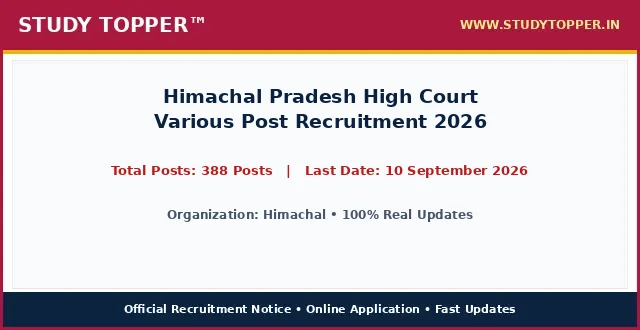
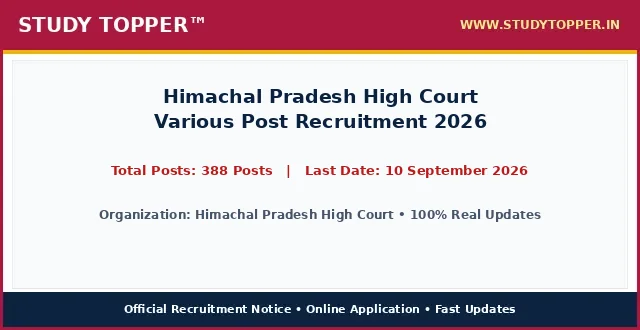
chore(lifecycle): daily auto-sort vacancies and update active dates

Changed region(s): [[0.1562, 0.6364, 0.8438, 0.6667]]

diff --git a/pages/himachal-pradesh-high-court-various-post-2026.html b/pages/himachal-pradesh-high-court-various-post-2026.html
@@ -987,12 +987,12 @@ ul.wp-block-latest-posts a:hover {
 <main class="site-main" id="main">
 <div class="gb-container gb-container-b39c368c">
 <h1 class="gb-headline gb-headline-e52a0102 gb-headline-text" style="font-size: 22px; font-weight: 700; color: #0000cd; text-align: left; margin: 8px 0 4px 0; line-height: 1.3; width: 100%; font-family: '-apple-system, BlinkMacSystemFont, 'Segoe UI', Roboto, 'Helvetica Neue', Arial, sans-serif', Times, serif, Hind, sans-serif;">Himachal Pradesh High Court Various Post Recruitment 2026</h1>
-<div class="gb-container gb-container-659bd175"><p style="color: #cd0808; font-weight: 700; font-size: 15px; margin: 2px 0 7px 0; text-align: left; font-family: '-apple-system, BlinkMacSystemFont, 'Segoe UI', Roboto, 'Helvetica Neue', Arial, sans-serif', Times, serif, Hind, sans-serif;">Post Date: August 22, 2026 12:44 PM</p></div>
-<p class="gb-headline gb-headline-550ae316 short_Details gb-headline-text" style="width: 100%; max-width: 100%; font-size: 16.8px; line-height: 1.55; color: #000000; text-align: justify; text-justify: inter-word; margin: 8px 0 14px 0; display: block; font-family: '-apple-system, BlinkMacSystemFont, 'Segoe UI', Roboto, 'Helvetica Neue', Arial, sans-serif', Times, serif, Hind, sans-serif;"><strong style="color: #0000cd;">Himachal</strong> has officially published the recruitment notice <strong style="color: #cd0808;">Himachal Pradesh High Court Various Post Recruitment 2026</strong> under notification number 2026. Online applications are invited for 388 Posts across multiple departments and cadre positions. Interested candidates possessing the requisite educational qualifications and falling between 18 Years to 40 Years can complete their online registration before the application deadline of 10 September 2026. Applicants should read the eligibility criteria, category reservation rules, and exam scheme thoroughly before submitting applications.</p>
+<div class="gb-container gb-container-659bd175"><p style="color: #cd0808; font-weight: 700; font-size: 15px; margin: 2px 0 7px 0; text-align: left; font-family: '-apple-system, BlinkMacSystemFont, 'Segoe UI', Roboto, 'Helvetica Neue', Arial, sans-serif', Times, serif, Hind, sans-serif;">Post Date: August 22, 2026 12:54 PM</p></div>
+<p class="gb-headline gb-headline-550ae316 short_Details gb-headline-text" style="width: 100%; max-width: 100%; font-size: 16.8px; line-height: 1.55; color: #000000; text-align: justify; text-justify: inter-word; margin: 8px 0 14px 0; display: block; font-family: '-apple-system, BlinkMacSystemFont, 'Segoe UI', Roboto, 'Helvetica Neue', Arial, sans-serif', Times, serif, Hind, sans-serif;"><strong style="color: #0000cd;">Himachal Pradesh High Court</strong> has officially published the recruitment notice <strong style="color: #cd0808;">Himachal Pradesh High Court Various Post Recruitment 2026</strong> under notification number Official Notification 2026. Online applications are invited for 388 Posts across multiple departments and cadre positions. Interested candidates possessing the requisite educational qualifications and falling between 18 Years to 40 Years can complete their online registration before the application deadline of 10 September 2026. Applicants should read the eligibility criteria, category reservation rules, and exam scheme thoroughly before submitting applications.</p>
 <div class="gb-container gb-container-9849916c"><div class="social-buttons-compact" style="display: flex; justify-content: flex-start; align-items: center; gap: 10px; margin: 10px 0 16px 0; width: 100%;"><a class="social-btn-compact wa" href="https://whatsapp.com/channel/0029Va9xyz" rel="noopener" style="background-color: #00d084; color: #ffffff; padding: 10px 18px; border-radius: 4px; text-decoration: none; font-weight: bold; font-size: 15.5px; display: inline-flex; align-items: center; justify-content: center; height: auto;" target="_blank">WhatsApp</a><a class="social-btn-compact tg" href="https://t.me/studytopperofficial" rel="noopener" style="background-color: #0088cc; color: #ffffff; padding: 10px 18px; border-radius: 4px; text-decoration: none; font-weight: bold; font-size: 15.5px; display: inline-flex; align-items: center; justify-content: center; height: auto;" target="_blank">Telegram</a></div></div>
 <div class="gb-container gb-container-f58e6ca1" style="border: 2px solid #5b032f; border-radius: 4px; overflow: hidden; margin: 15px 0 20px 0; background-color: #ffffff; width: 100%; box-sizing: border-box;">
 <h2 class="gb-headline gb-headline-2ca5a791 gb-headline-text" style="font-size: 16px; font-weight: 700; text-align: center; color: #ef0303; line-height: 1.3; padding: 6px 4px; margin: 0; background: #ffffff; font-family: '-apple-system, BlinkMacSystemFont, 'Segoe UI', Roboto, 'Helvetica Neue', Arial, sans-serif', Times, serif, Hind, sans-serif;">Himachal Pradesh High Court Various Post Recruitment 2026 &ndash; Latest Details &amp; Updates</h2>
-<h3 class="gb-headline gb-headline-7d5f86e8 gb-headline-text" style="font-size: 16px; font-weight: 600; text-align: center; color: #009703; line-height: 1.25; margin: 0; padding: 2px 4px 6px 4px; background: #ffffff; font-family: '-apple-system, BlinkMacSystemFont, 'Segoe UI', Roboto, 'Helvetica Neue', Arial, sans-serif', Times, serif, Hind, sans-serif;">Himachal : Details &amp; Summary</h3>
+<h3 class="gb-headline gb-headline-7d5f86e8 gb-headline-text" style="font-size: 16px; font-weight: 600; text-align: center; color: #009703; line-height: 1.25; margin: 0; padding: 2px 4px 6px 4px; background: #ffffff; font-family: '-apple-system, BlinkMacSystemFont, 'Segoe UI', Roboto, 'Helvetica Neue', Arial, sans-serif', Times, serif, Hind, sans-serif;">Himachal Pradesh High Court : Details &amp; Summary</h3>
 <p class="gb-headline gb-headline-79adf169 gb-headline-text" style="margin: 0 0 6px 0; font-family: '-apple-system, BlinkMacSystemFont, 'Segoe UI', Roboto, 'Helvetica Neue', Arial, sans-serif', Times, serif, Hind, sans-serif; text-align: center; font-size: 18px; font-weight: 700;"><a href="/" style="color: #0000ff; text-decoration: underline;">StudyTopper.in</a></p>
 
 <style id="st-post-boxes-responsive-css">
@@ -1025,7 +1025,7 @@ ul.wp-block-latest-posts a:hover {
     <div style="background-color: #5b032f; color: #ffffff; padding: 8px 10px; font-size: 20px; font-weight: 700; text-align: center; font-family: '-apple-system, BlinkMacSystemFont, 'Segoe UI', Roboto, 'Helvetica Neue', Arial, sans-serif', Times, serif, Hind, sans-serif;">Important Dates</div>
     <div style="padding: 12px 14px; background-color: #ffffff;">
       <ul style="padding-left: 20px; margin: 0; list-style-type: disc; text-align: left; font-size: 14pt; line-height: 1.6; font-family: '-apple-system, BlinkMacSystemFont, 'Segoe UI', Roboto, 'Helvetica Neue', Arial, sans-serif', Times, serif, Hind, sans-serif;">
-        <li><span style="font-size: 14pt;">Application Begin : <strong>As per Official Notification</strong></span></li><li><span style="font-size: 14pt;">Last Date for Apply Online : <span style="color: #ff0000;"><strong>10 September 2026</strong></span></span></li><li><span style="font-size: 14pt;">Pay Exam Fee Last Date : <span style="color: #ff0000;"><strong>10 September 2026</strong></span></span></li><li><span style="font-size: 14pt;">Exam Date : <strong>As per Schedule</strong></span></li><li><span style="font-size: 14pt;">Admit Card Available : <strong>Before Examination</strong></span></li>
+        <li><span style="font-size: 14pt;">Application Begin : <strong>Check Official Notification</strong></span></li><li><span style="font-size: 14pt;">Last Date for Apply Online : <span style="color: #ff0000;"><strong>10 September 2026</strong></span></span></li><li><span style="font-size: 14pt;">Pay Exam Fee Last Date : <span style="color: #ff0000;"><strong>10 September 2026</strong></span></span></li><li><span style="font-size: 14pt;">Exam Date : <strong>As per Schedule</strong></span></li>
       </ul>
     </div>
   </div>
@@ -1034,7 +1034,7 @@ ul.wp-block-latest-posts a:hover {
     <div style="background-color: #5b032f; color: #ffffff; padding: 8px 10px; font-size: 20px; font-weight: 700; text-align: center; font-family: '-apple-system, BlinkMacSystemFont, 'Segoe UI', Roboto, 'Helvetica Neue', Arial, sans-serif', Times, serif, Hind, sans-serif;">Application Fee</div>
     <div style="padding: 12px 14px; background-color: #ffffff;">
       <ul style="padding-left: 20px; margin: 0; list-style-type: disc; text-align: left; font-size: 14pt; line-height: 1.6; font-family: '-apple-system, BlinkMacSystemFont, 'Segoe UI', Roboto, 'Helvetica Neue', Arial, sans-serif', Times, serif, Hind, sans-serif;">
-        <li><span style="font-size: 14pt;">General / OBC / EWS : <strong>Check Official Notification</strong></span></li><li><span style="font-size: 14pt;">SC / ST / PH : <strong>Check Official Notification</strong></span></li><li><span style="font-size: 14pt;">Payment Mode : <strong>Online Fee Mode via Net Banking, Debit/Credit Card or Offline Challan</strong></span></li>
+        <li><span style="font-size: 14pt;">General / OBC / EWS : <strong>Check Official Notification</strong></span></li><li><span style="font-size: 14pt;">SC / ST / PH : <strong>Check Official Notification</strong></span></li><li><span style="font-size: 14pt;">Payment Mode : <strong>Online / Offline Fee Mode as per Notification</strong></span></li>
       </ul>
       <div style="margin-top: 10px; font-size: 14pt; line-height: 1.5; color: #000000; border-top: 1px dashed #ccc; padding-top: 8px; font-family: '-apple-system, BlinkMacSystemFont, 'Segoe UI', Roboto, 'Helvetica Neue', Arial, sans-serif', Times, serif, Hind, sans-serif;">
         <strong>Mode of Payment / Access:</strong> Online via Net Banking, Debit Card, Credit Card, UPI or Free Candidate Portal.
@@ -1047,7 +1047,7 @@ ul.wp-block-latest-posts a:hover {
 <div class="st-grid-row" style="display: flex; flex-wrap: wrap; width: 100%; border-top: 2px solid #5b032f; margin: 0; padding: 0; box-sizing: border-box;">
   <!-- Left Col: Age Limits -->
   <div class="st-col-half st-col-border-right" style="box-sizing: border-box; vertical-align: top;">
-    <div style="background-color: #046132; color: #ffffff; padding: 8px 10px; font-size: 17px; font-weight: 700; text-align: center; font-family: '-apple-system, BlinkMacSystemFont, 'Segoe UI', Roboto, 'Helvetica Neue', Arial, sans-serif', Times, serif, Hind, sans-serif;">Himachal : Age Limits As On 01/08/2026</div>
+    <div style="background-color: #046132; color: #ffffff; padding: 8px 10px; font-size: 17px; font-weight: 700; text-align: center; font-family: '-apple-system, BlinkMacSystemFont, 'Segoe UI', Roboto, 'Helvetica Neue', Arial, sans-serif', Times, serif, Hind, sans-serif;">Himachal Pradesh High Court : Age Limits As On 01/08/2026</div>
     <div style="padding: 12px 14px; background-color: #ffffff;">
       <ul style="padding-left: 20px; margin: 0; list-style-type: disc; text-align: left; font-size: 14pt; line-height: 1.6; font-family: '-apple-system, BlinkMacSystemFont, 'Segoe UI', Roboto, 'Helvetica Neue', Arial, sans-serif', Times, serif, Hind, sans-serif;">
         <li><span style="font-size: 14pt;">Minimum age : <strong>18 Years &</strong></span></li><li><span style="font-size: 14pt;">The Maximum Age Is : <strong>45 Years</strong></span></li>
@@ -1113,10 +1113,10 @@ ul.wp-block-latest-posts a:hover {
 <table style="border-collapse: collapse; width: 100%;">
 <tbody>
 <tr>
-<td style="width: 100%; text-align: center;"><span style="background-color: #000080; color: #ffffff; font-size: 14pt; font-weight: bold; display: block; padding: 6px;"> How to Fill Himachal Online Application Form </span></td>
+<td style="width: 100%; text-align: center;"><span style="background-color: #000080; color: #ffffff; font-size: 14pt; font-weight: bold; display: block; padding: 6px;"> How to Fill Himachal Pradesh High Court Online Application Form </span></td>
 </tr>
 <tr>
-<td style="width: 100%;"><ol style="margin:0; padding-left:18px; text-align: left !important; list-style-position: outside !important"><li style="margin-bottom:6px; text-align: left !important;">Candidate must read the complete official notification issued by Himachal before applying.</li><li style="margin-bottom:6px; text-align: left !important;">Collect and verify all essential documents including Educational Proof, ID Proof, Address Details, and Basic Details.</li><li style="margin-bottom:6px; text-align: left !important;">Scan all necessary documents accurately: Passport Size Photograph, Signature, ID Proof, and Category Certificate.</li><li style="margin-bottom:6px; text-align: left !important;">Click on the 'Apply Online' link given in the Important Links section below on StudyTopper.</li><li style="margin-bottom:6px; text-align: left !important;">Fill all required personal, educational, and communication details in the application form carefully.</li><li style="margin-bottom:6px; text-align: left !important;">Review the application form preview thoroughly before final submission.</li><li style="margin-bottom:6px; text-align: left !important;">Pay the prescribed examination fee through online payment gateway if applicable.</li><li style="margin-bottom:6px; text-align: left !important;">Take a clean printout of the final submitted application form for future reference.</li><li style="margin-bottom:6px; text-align: left !important;">Resize candidate photograph and signature accurately using the <a href="https://indtool.in" rel="noopener" target="_blank"><strong>StudyTopper Tools</strong></a> image resizer at indtool.in.</li></ol></td>
+<td style="width: 100%;"><ol style="margin:0; padding-left:18px; text-align: left !important; list-style-position: outside !important"><li style="margin-bottom:6px; text-align: left !important;">Read the official recruitment notification carefully before applying.</li><li style="margin-bottom:6px; text-align: left !important;">Keep all basic documents ready: ID Proof, Address Details, Basic Details.</li><li style="margin-bottom:6px; text-align: left !important;">Ready your scanned documents like Photo, Signature, ID Proof, etc.</li><li style="margin-bottom:6px; text-align: left !important;">Click on the 'Apply Online' link given in the Important Links section below.</li><li style="margin-bottom:6px; text-align: left !important;">Fill out all the columns in the application form accurately.</li><li style="margin-bottom:6px; text-align: left !important;">Pay the required application fee if applicable.</li><li style="margin-bottom:6px; text-align: left !important;">Take a printout of the final submitted application form.</li><li style="margin-bottom:6px; text-align: left !important;">Resize candidate photograph and signature accurately using the <a href="https://indtool.in" rel="noopener" target="_blank"><strong>StudyTopper Tools</strong></a> image resizer at indtool.in.</li></ol></td>
 </tr>
 </tbody>
 </table>
@@ -1124,7 +1124,7 @@ ul.wp-block-latest-posts a:hover {
 <table style="border-collapse: collapse; width: 100%;">
 <tbody>
 <tr>
-<td style="width: 100%; text-align: center;"><span style="background-color: #000080; color: #ffffff; font-size: 14pt;"><strong><span style="color: #ffffff;"> Himachal Recruitment 2026 : Mode Of Selection </span></strong></span></td>
+<td style="width: 100%; text-align: center;"><span style="background-color: #000080; color: #ffffff; font-size: 14pt;"><strong><span style="color: #ffffff;"> Himachal Pradesh High Court Recruitment 2026 : Mode Of Selection </span></strong></span></td>
 </tr>
 <tr>
 <td style="width: 100%;">
